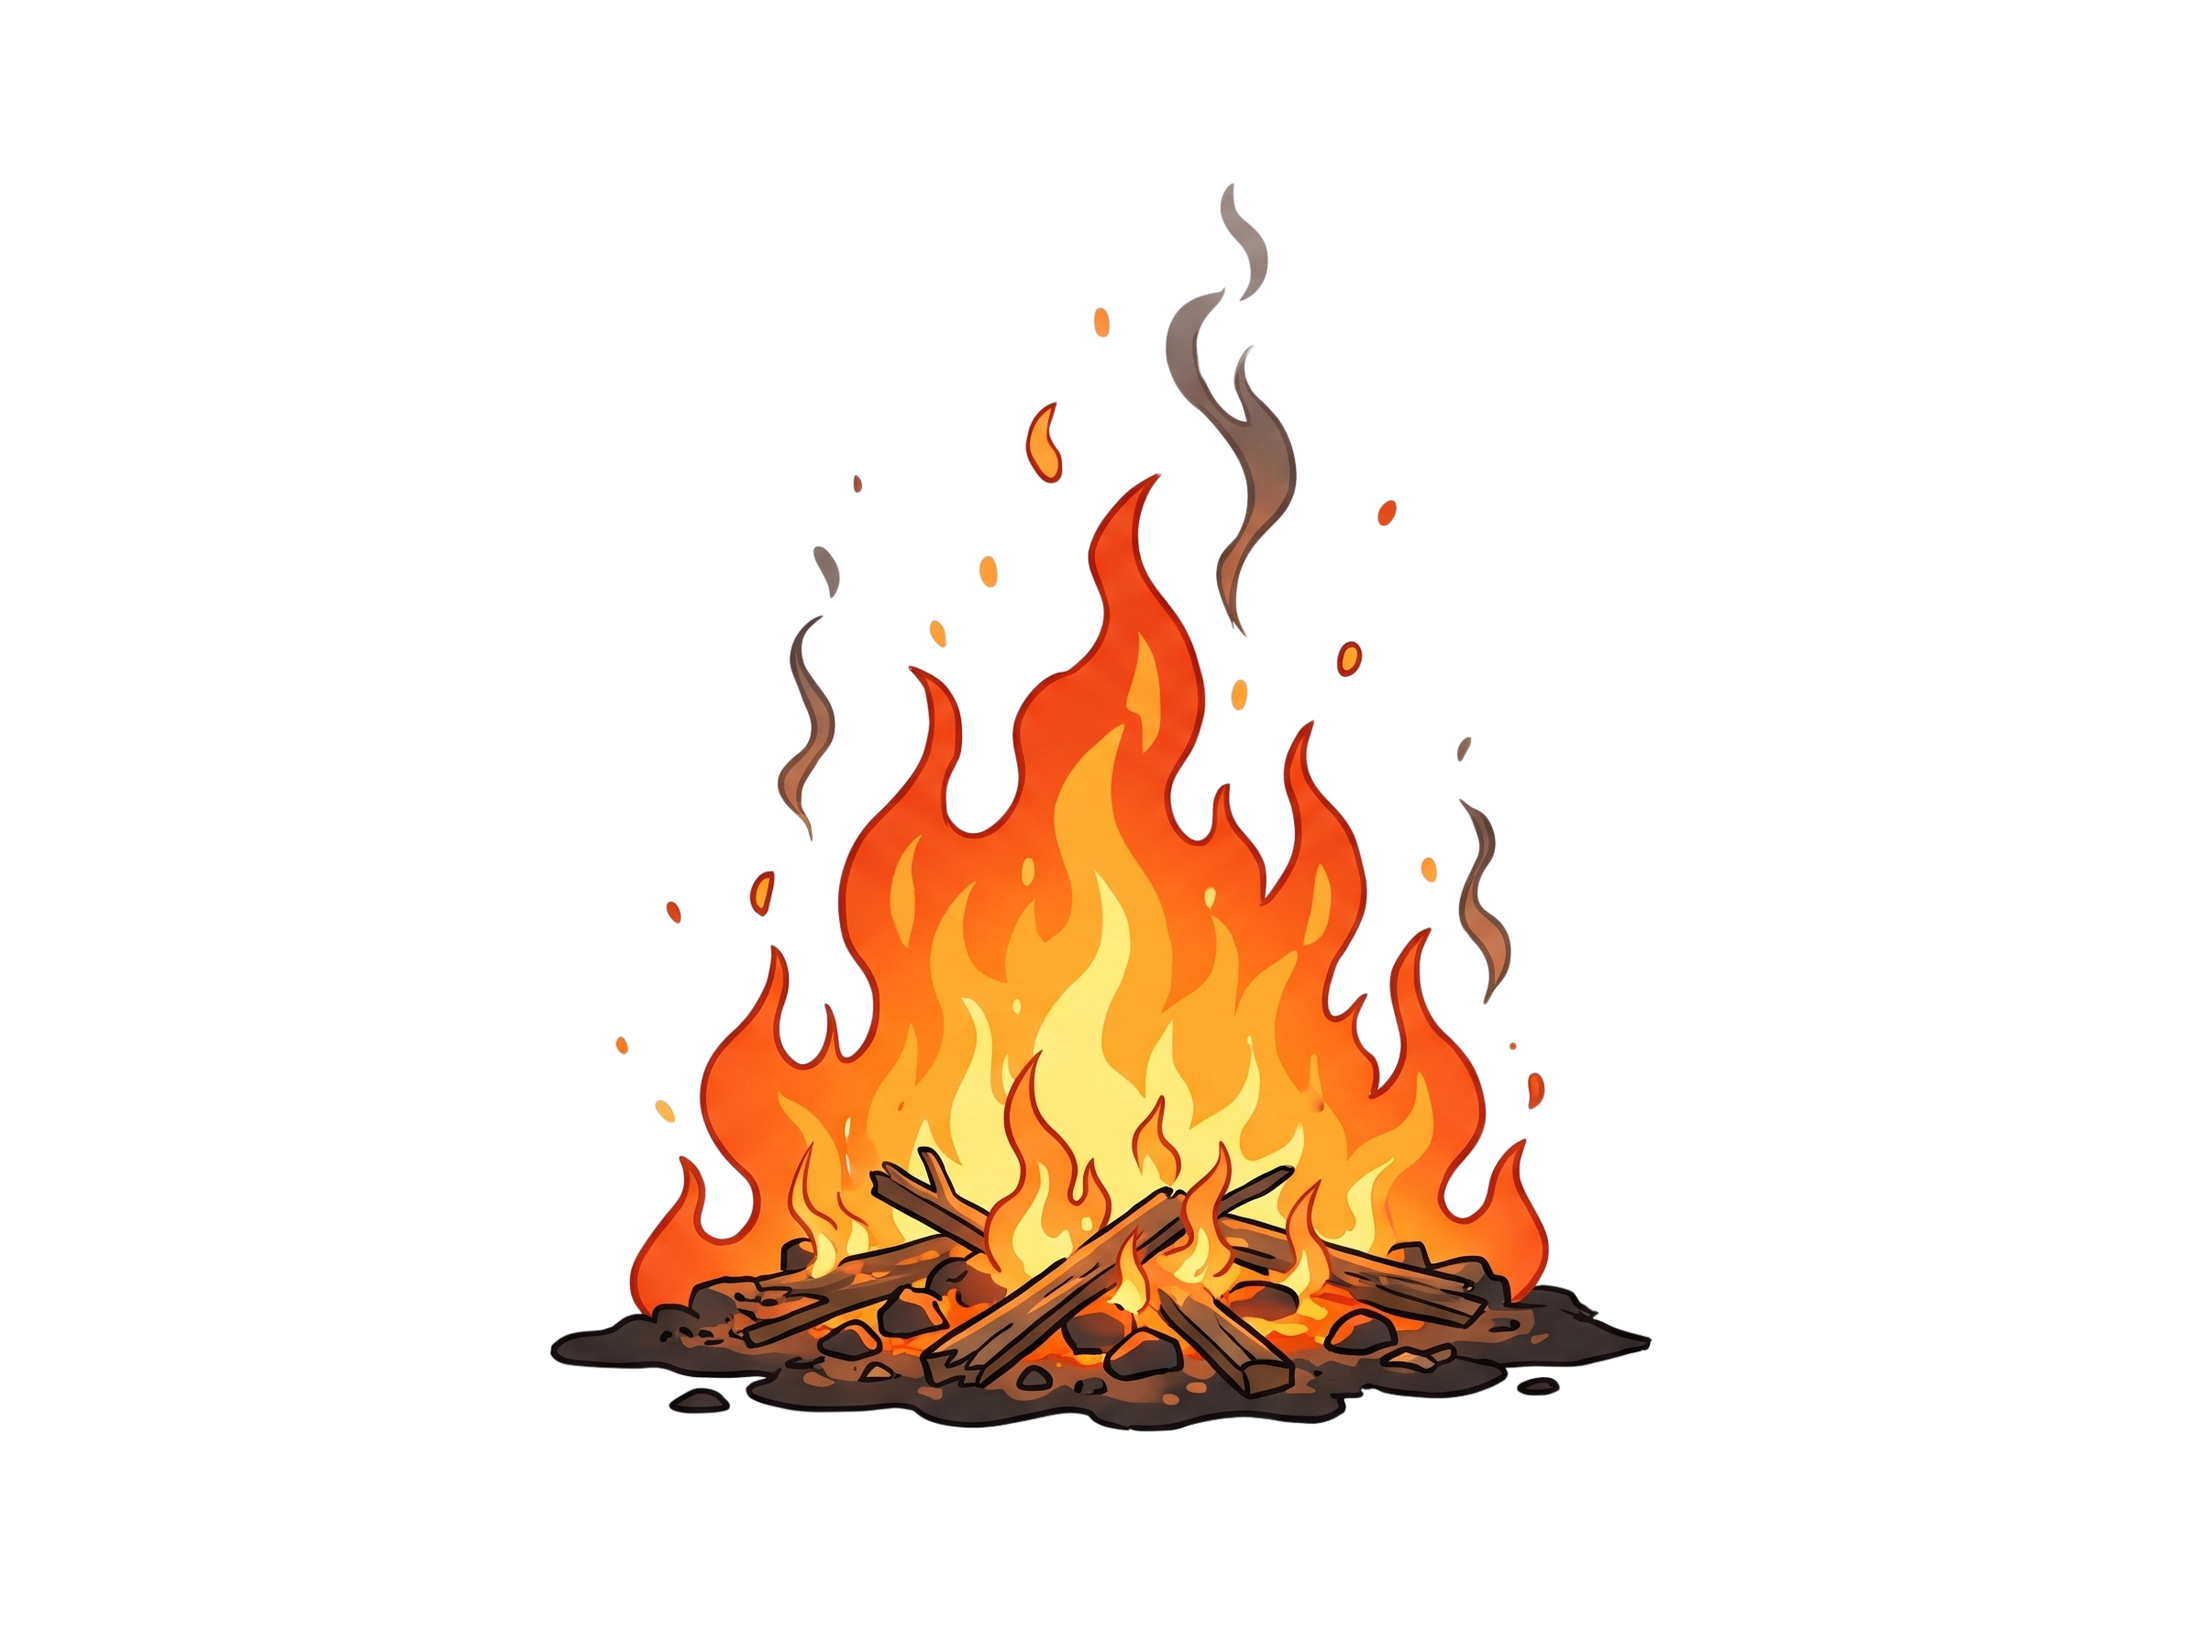
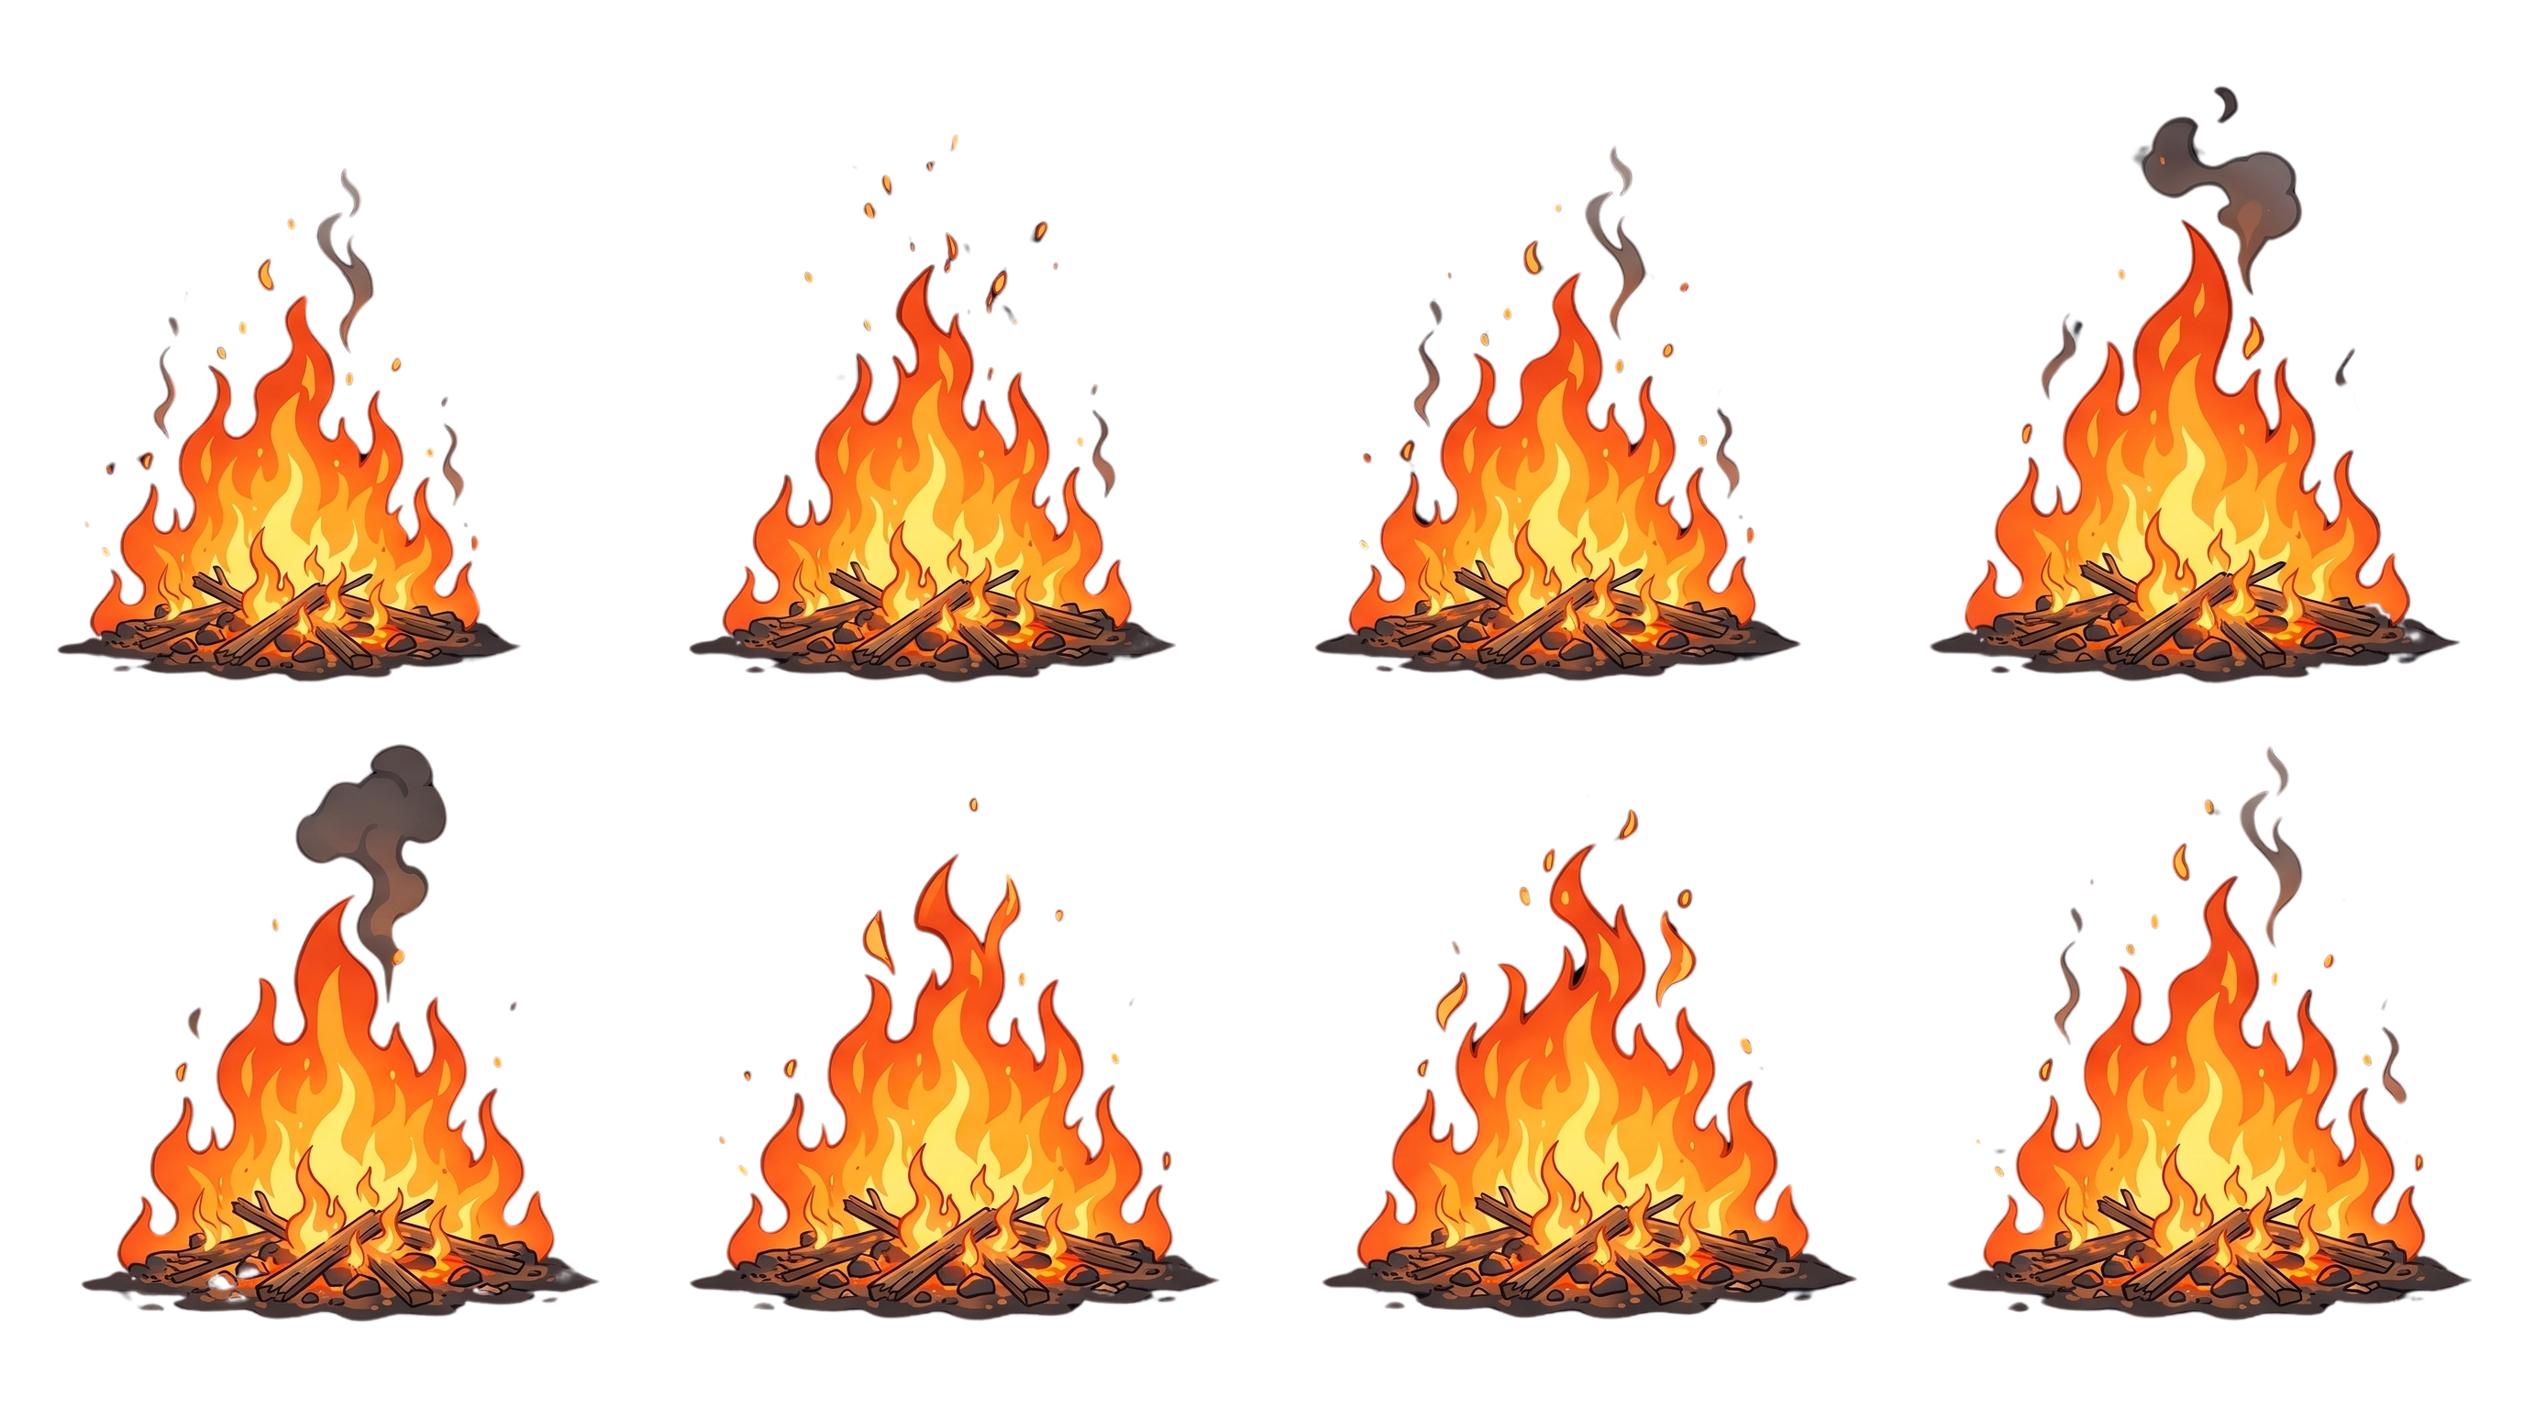
Added animation for assets

diff --git a/script.js b/script.js
@@ -18,38 +18,53 @@ const CONFIG = {
 
     // B. RUNNER
     runner: {
-        x: 145,                 // Horizontal position of the runner's bottom-center anchor.
-        yOffset: 0,             // Move the runner's ground anchor down (+) or up (-).
-        maxWidth: 150,          // Maximum displayed image width.
-        maxHeight: 200,         // Maximum displayed image height.
-        imageOffsetX: 0,        // Move the rendered image and its hitbox horizontally.
-        imageOffsetY: 0,        // Move the rendered image and its hitbox vertically.
-        jumpStrength: 650,      // Initial upward jump speed; larger values make higher jumps.
-        gravity: 1750,          // Downward acceleration; larger values make the runner land sooner.
-        hitboxPaddingX: 50,  // Shrink the collision area from both left and right sides.
-        hitboxPaddingY: 40   // Shrink the collision area from both top and bottom.
+        x: 145,                 
+        yOffset: 0,             
+        maxWidth: 150,          
+        maxHeight: 250,         
+        imageOffsetX: 0,        
+        imageOffsetY: 0,        
+        jumpStrength: 750,      
+        gravity: 1750,          
+        hitboxPaddingX: 50,  
+        hitboxPaddingY: 40,
+        // --- SPRITE ANIMATION SETTINGS ---
+        spriteCols: 5,          
+        spriteRows: 2,          
+        totalFrames: 10,        
+        animationSpeed: 1      
     },
 
-    // C. OBSTACLE 1
+    // C. OBSTACLE 1 (Campfire)
     obstacle1: {
-        maxWidth: 150,           // Maximum displayed image width.
-        maxHeight: 200,        // Maximum displayed image height.
-        imageOffsetX: 0,        // Move the image and hitbox horizontally.
-        imageOffsetY: 20,      // Move the image and hitbox vertically.
-        groundOffset: 10,        // Move the bottom anchor down (+) or up (-) from the ground.
-        hitboxPaddingX: 30,  // Shrink the collision area from both sides.
-        hitboxPaddingY: 15  // Shrink the collision area from top and bottom.
+        maxWidth: 150,           
+        maxHeight: 200,        
+        imageOffsetX: 0,        
+        imageOffsetY: 20,      
+        groundOffset: 10,        
+        hitboxPaddingX: 30,  
+        hitboxPaddingY: 15,
+        // --- SPRITE ANIMATION SETTINGS ---
+        spriteCols: 4,          // Campfire grid is 4x2
+        spriteRows: 2,          
+        totalFrames: 8,        
+        animationSpeed: 12      
     },
 
-    // D. OBSTACLE 2
+    // D. OBSTACLE 2 (Shadow Monster)
     obstacle2: {
-        maxWidth: 200,          // Maximum displayed image width.
-        maxHeight: 300,        // Maximum displayed image height.
-        imageOffsetX: 0,        // Move the image and hitbox horizontally.
-        imageOffsetY: 20,      // Move the image and hitbox vertically.
-        groundOffset: 0,        // Move the bottom anchor down (+) or up (-) from the ground.
-        hitboxPaddingX: 35,  // Shrink the collision area from both sides.
-        hitboxPaddingY: 5   // Shrink the collision area from top and bottom.
+        maxWidth: 200,          
+        maxHeight: 300,        
+        imageOffsetX: 0,        
+        imageOffsetY: 20,      
+        groundOffset: 0,        
+        hitboxPaddingX: 35,  
+        hitboxPaddingY: 5,
+        // --- SPRITE ANIMATION SETTINGS ---
+        spriteCols: 4,          // Monster grid is 4x2
+        spriteRows: 2,          
+        totalFrames: 8,        
+        animationSpeed: 10      
     },
 
     // E. BACKGROUND
@@ -1424,21 +1439,60 @@ const CONFIG = {
     // 8. DRAWING AND HITBOX VISUALIZATION
     // ============================================
 
-    function drawRunner() {
+   function drawRunner() {
         const layout = getRunnerLayout();
+        const source = getAssetSource("runner");
 
-        drawAsset(
-            "runner",
-            layout,
-            runnerAnimationTime
+        if (!source || layout.width <= 0 || layout.height <= 0) return;
+
+        if (assetImages.runner === null) {
+            drawAsset("runner", layout, runnerAnimationTime);
+            return;
+        }
+
+        const speed = CONFIG.runner.animationSpeed;
+        const currentFrame = runnerIsJumping 
+            ? 3 
+            : Math.floor(runnerAnimationTime * speed) % CONFIG.runner.totalFrames;
+
+        const frameWidth = source.width / CONFIG.runner.spriteCols;
+        const frameHeight = source.height / CONFIG.runner.spriteRows;
+        
+        const col = currentFrame % CONFIG.runner.spriteCols;
+        const row = Math.floor(currentFrame / CONFIG.runner.spriteCols);
+
+        ctx.drawImage(
+            source,
+            col * frameWidth, row * frameHeight, frameWidth, frameHeight,
+            layout.x, layout.y, layout.width, layout.height
         );
     }
 
     function drawObstacles() {
         obstacles.forEach((obstacle) => {
-            drawAsset(
-                obstacle.type,
-                getObstacleLayout(obstacle)
+            const layout = getObstacleLayout(obstacle);
+            const source = getAssetSource(obstacle.type);
+            const settings = CONFIG[obstacle.type];
+
+            if (!source || layout.width <= 0 || layout.height <= 0) return;
+
+            if (assetImages[obstacle.type] === null || !settings.totalFrames) {
+                drawAsset(obstacle.type, layout);
+                return;
+            }
+
+            const currentFrame = Math.floor(elapsedTime * settings.animationSpeed) % settings.totalFrames;
+
+            const frameWidth = source.width / settings.spriteCols;
+            const frameHeight = source.height / settings.spriteRows;
+            
+            const col = currentFrame % settings.spriteCols;
+            const row = Math.floor(currentFrame / settings.spriteCols);
+
+            ctx.drawImage(
+                source,
+                col * frameWidth, row * frameHeight, frameWidth, frameHeight,
+                layout.x, layout.y, layout.width, layout.height
             );
         });
     }
